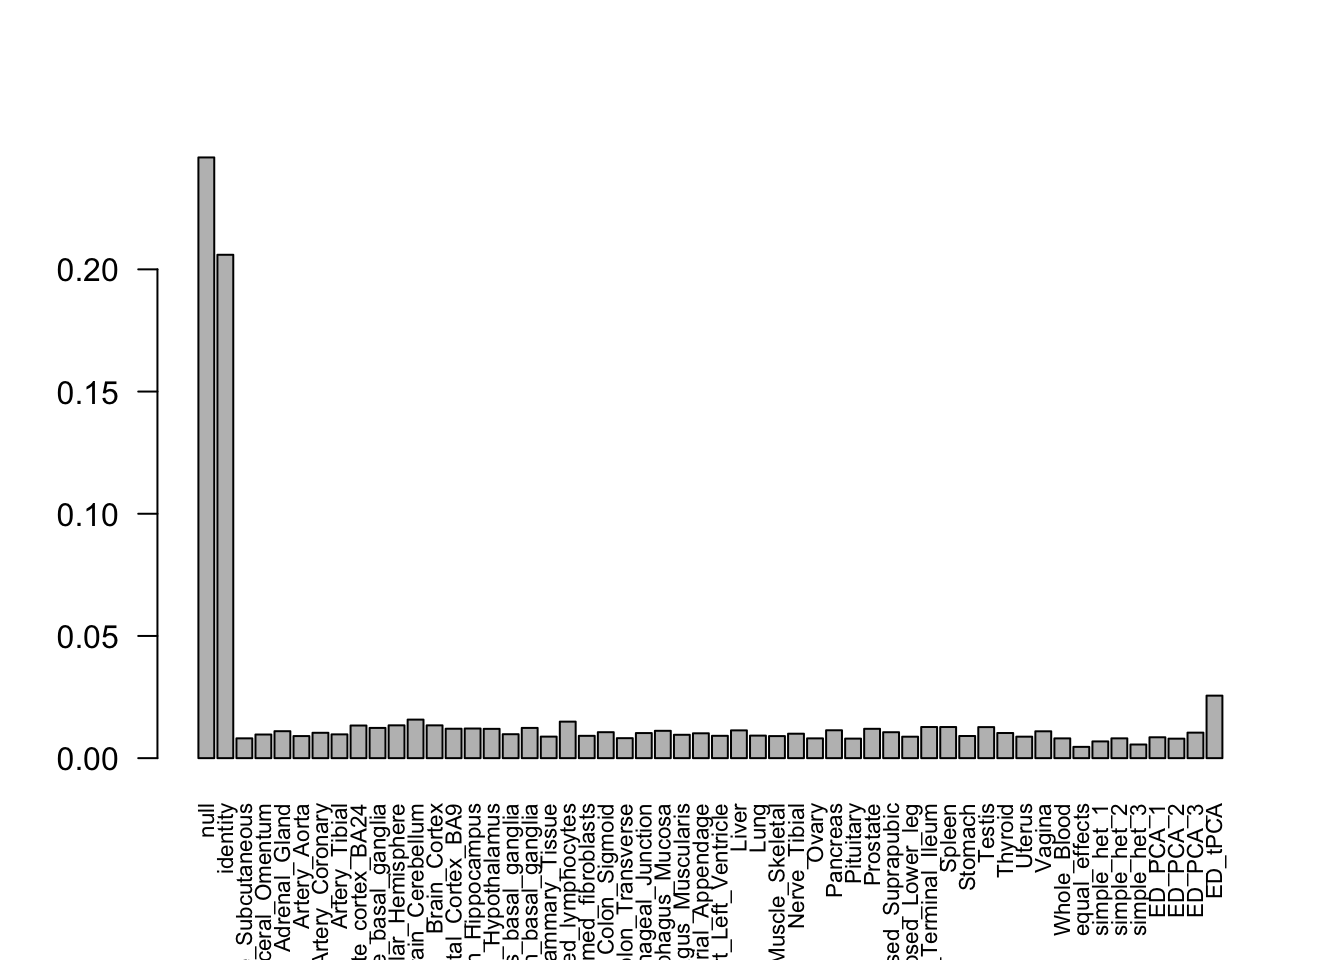
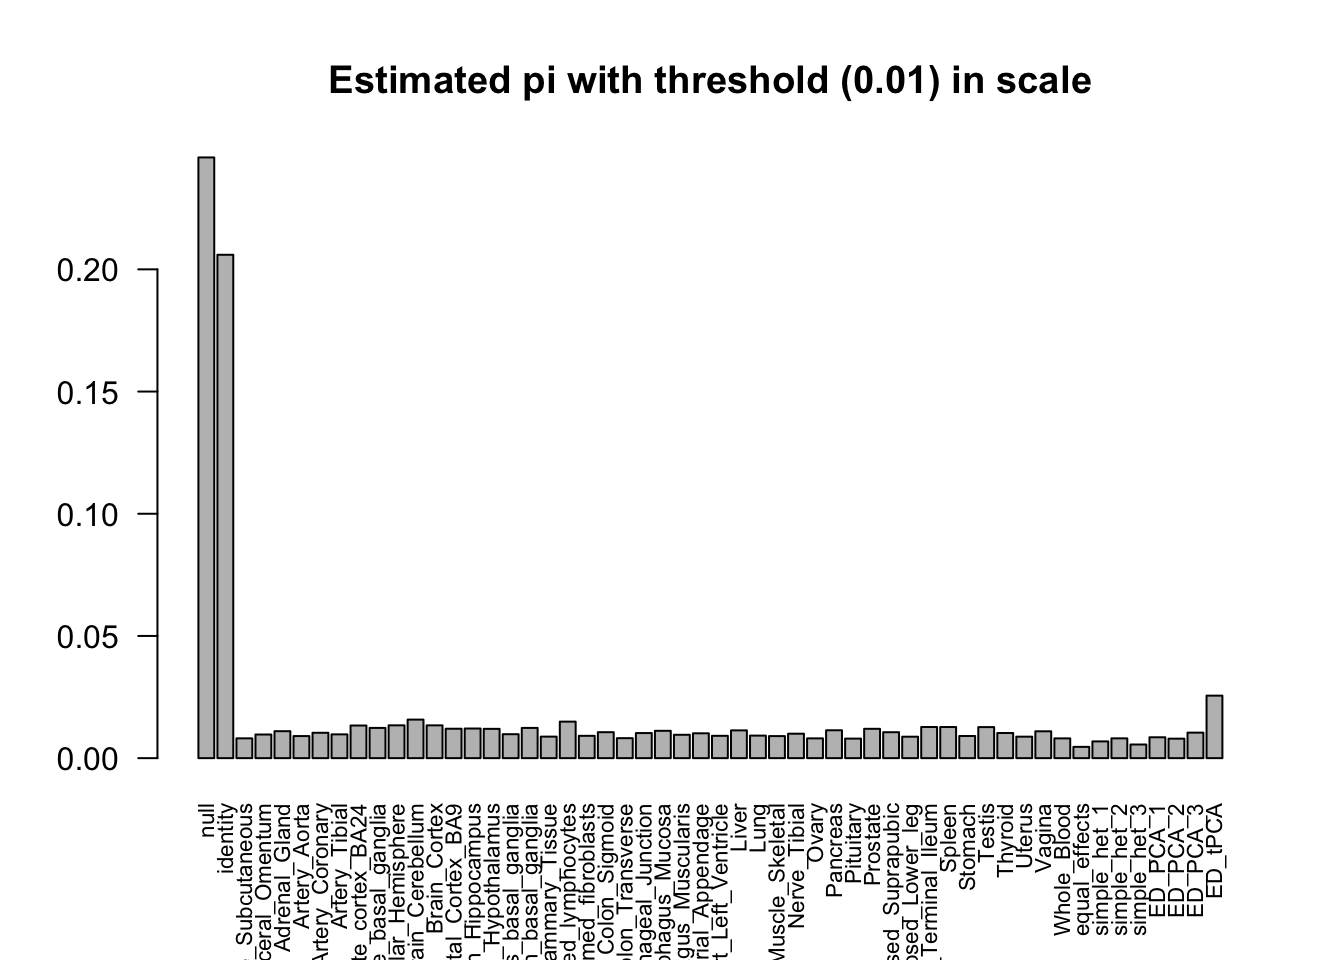
Build site.

Changed region(s): [[0.2188, 0.0625, 0.8125, 0.0938]]

diff --git a/docs/MashLowSignalGTEx3.5.html b/docs/MashLowSignalGTEx3.5.html
@@ -341,7 +341,7 @@ div.section {
 </div>
 
 
-<p><strong>Last updated:</strong> 2018-08-30</p>
+<p><strong>Last updated:</strong> 2018-08-31</p>
 <strong>workflowr checks:</strong> <small>(Click a bullet for more information)</small>
 <ul>
 <li>
@@ -365,7 +365,7 @@ div.section {
 </details>
 </li>
 <li>
-<p><details> <summary> <strong style="color:blue;">✔</strong> <strong>Repository version:</strong> <a href="https://github.com/zouyuxin/mash_application/tree/2b58dcac68168bcb25f862bdec74f0cc351fff6a" target="_blank">2b58dca</a> </summary></p>
+<p><details> <summary> <strong style="color:blue;">✔</strong> <strong>Repository version:</strong> <a href="https://github.com/zouyuxin/mash_application/tree/ef3e8e3743b94c08abe07d7094e57886d54ce0db" target="_blank">ef3e8e3</a> </summary></p>
 Great! You are using Git for version control. Tracking code development and connecting the code version to the results is critical for reproducibility. The version displayed above was the version of the Git repository at the time these results were generated. <br><br> Note that you need to be careful to ensure that all relevant files for the analysis have been committed to Git prior to generating the results (you can use <code>wflow_publish</code> or <code>wflow_git_commit</code>). workflowr only checks the R Markdown file, but you know if there are other scripts or data files that it depends on. Below is the status of the Git repository when the results were generated:
 <pre><code>
 Ignored files:
@@ -388,9 +388,6 @@ Untracked files:
     Untracked:  analysis/EstimateCorPrior.Rmd
     Untracked:  analysis/EstimateCorSol.Rmd
     Untracked:  analysis/HierarchicalFlashSim.Rmd
-    Untracked:  analysis/MashLowSignalGTEx.Rmd
-    Untracked:  analysis/MashLowSignalGTExPerm.Rmd
-    Untracked:  analysis/MashLowSignalIndex.Rmd
     Untracked:  analysis/Mash_GTEx.Rmd
     Untracked:  analysis/MeanAsh.Rmd
     Untracked:  analysis/OutlierDetection.Rmd
@@ -414,8 +411,6 @@ Untracked files:
     Untracked:  data/Blischak_et_al_2015/
     Untracked:  data/scale_data.rds
     Untracked:  docs/figure/Classify.Rmd/
-    Untracked:  docs/figure/MashLowSignalGTEx.Rmd/
-    Untracked:  docs/figure/MashLowSignalGTExPerm.Rmd/
     Untracked:  docs/figure/OutlierDetection.Rmd/
     Untracked:  docs/figure/OutlierDetection2.Rmd/
     Untracked:  docs/figure/OutlierDetection3.Rmd/
@@ -474,6 +469,7 @@ Untracked files:
     Untracked:  output/UKBio_mash_model.rds
 
 Unstaged changes:
+    Deleted:    analysis/MashLowSignalGTEx3.5P.Rmd
     Modified:   analysis/Mash_UKBio.Rmd
     Modified:   analysis/mash_missing_samplesize.Rmd
     Modified:   output/Flash_T2_0.rds
@@ -508,6 +504,40 @@ Message
 </tr>
 </thead>
 <tbody>
+<tr>
+<td style="text-align:left;">
+Rmd
+</td>
+<td style="text-align:left;">
+<a href="https://github.com/zouyuxin/mash_application/blob/ef3e8e3743b94c08abe07d7094e57886d54ce0db/analysis/MashLowSignalGTEx3.5.Rmd" target="_blank">ef3e8e3</a>
+</td>
+<td style="text-align:left;">
+zouyuxin
+</td>
+<td style="text-align:left;">
+2018-08-31
+</td>
+<td style="text-align:left;">
+wflow_publish(“analysis/MashLowSignalGTEx3.5.Rmd”)
+</td>
+</tr>
+<tr>
+<td style="text-align:left;">
+html
+</td>
+<td style="text-align:left;">
+<a href="https://cdn.rawgit.com/zouyuxin/mash_application/62d0375740804365a4f47ec7548074147abc9868/docs/MashLowSignalGTEx3.5.html" target="_blank">62d0375</a>
+</td>
+<td style="text-align:left;">
+zouyuxin
+</td>
+<td style="text-align:left;">
+2018-08-30
+</td>
+<td style="text-align:left;">
+Build site.
+</td>
+</tr>
 <tr>
 <td style="text-align:left;">
 Rmd
@@ -602,6 +632,37 @@ wflow_publish(“analysis/MashLowSignalGTEx3.5.Rmd”)
 <pre><code>Loading required package: ashr</code></pre>
 <pre class="r"><code>library(knitr)
 library(kableExtra)</code></pre>
+<p>There are two random sets in the <a href="https://github.com/stephenslab/gtexresults/blob/master/data/MatrixEQTLSumStats.Portable.Z.rds?raw=TRUE">GTEx summary data set</a>. We don’t know the null in the real data. If we have the individual level data, we can do a permutation to generate null. With the summary statistics, we select the null set using threshold on z scores.</p>
+<p>Using qvalues 0.05 as the threshold, the corresponding non-significant |z| value is around 3.1. Since lfsr and lfdr are both more conservative than q values, we select the samples with <span class="math inline">\(\max_{r} |Z_{jr}| &lt; 3.5\)</span> from each data set as the null set. We estimate data driven covariance matrices from data 1, estimate noise correlation from data 2, fit mash model on data 2 and calculate posterior on data 1.</p>
+<pre class="r"><code>data = readRDS(&#39;../output/GTEx_3.5_nullData.rds&#39;)
+model = readRDS(&#39;../output/GTEx_3.5_nullModel.rds&#39;)</code></pre>
+<p>Sample size:</p>
+<pre class="r"><code>samplesize = matrix(c(nrow(data$m.data1.null$Bhat), nrow(data$m.data2.null$Bhat)))
+row.names(samplesize) = c(&#39;data 1&#39;, &#39;data 2&#39;)
+samplesize %&gt;% kable() %&gt;% kable_styling()</code></pre>
+<table class="table" style="margin-left: auto; margin-right: auto;">
+<tbody>
+<tr>
+<td style="text-align:left;">
+data 1
+</td>
+<td style="text-align:right;">
+18189
+</td>
+</tr>
+<tr>
+<td style="text-align:left;">
+data 2
+</td>
+<td style="text-align:right;">
+25718
+</td>
+</tr>
+</tbody>
+</table>
+<pre class="r"><code>barplot(get_estimated_pi(model), las=2, cex.names = 0.7)</code></pre>
+<p><img src="figure/MashLowSignalGTEx3.5.Rmd/unnamed-chunk-4-1.png" width="672" style="display: block; margin: auto;" /></p>
+<p>The estimated weights <span class="math inline">\(\hat{\pi}\)</span> on null part is not large. The weight on the other covariance structures may concentrate on the small grid (small <span class="math inline">\(\omega_{l}\)</span>). So they are very close to null, but we cannot view it in the plot. I modified the <code>get_estimated_pi</code> function to have a threshold for grid. The weights on the grid less than the threshold are merged into the null part.</p>
 <pre class="r"><code>get_estimated_pi = function(m, dimension = c(&quot;cov&quot;, &quot;grid&quot;, &quot;all&quot;), thres = NULL){
   dimension = match.arg(dimension)
   if (dimension == &quot;all&quot;) {
@@ -635,66 +696,6 @@ library(kableExtra)</code></pre>
       return(pihat)
   }
 }</code></pre>
-<p>There are two random sets in the <a href="https://github.com/stephenslab/gtexresults/blob/master/data/MatrixEQTLSumStats.Portable.Z.rds?raw=TRUE">GTEx summary data set</a>. Using qvalues 0.05 as the threshold, the corresponding non-significant |z| value is around 3.1. Since lfsr and lfdr are both more conservative than q values, we select the samples with <span class="math inline">\(\max_{r} |Z_{jr}| &lt; 3.5\)</span> from each data set as the null set. We estimate data driven covariance matrices from data 1, estimate noise correlation from data 2, fit mash model on data 2 and calculate posterior on data 1.</p>
-<pre class="r"><code>data = readRDS(&#39;../output/GTEx_3.5_nullData.rds&#39;)
-model = readRDS(&#39;../output/GTEx_3.5_nullModel.rds&#39;)</code></pre>
-<p>Sample size:</p>
-<pre class="r"><code>samplesize = matrix(c(nrow(data$m.data1.null$Bhat), nrow(data$m.data2.null$Bhat)))
-row.names(samplesize) = c(&#39;data 1&#39;, &#39;data 2&#39;)
-samplesize %&gt;% kable() %&gt;% kable_styling()</code></pre>
-<table class="table" style="margin-left: auto; margin-right: auto;">
-<tbody>
-<tr>
-<td style="text-align:left;">
-data 1
-</td>
-<td style="text-align:right;">
-18189
-</td>
-</tr>
-<tr>
-<td style="text-align:left;">
-data 2
-</td>
-<td style="text-align:right;">
-25718
-</td>
-</tr>
-</tbody>
-</table>
-<pre class="r"><code>barplot(get_estimated_pi(model), las=2, cex.names = 0.7)</code></pre>
-<p><img src="figure/MashLowSignalGTEx3.5.Rmd/unnamed-chunk-5-1.png" width="672" style="display: block; margin: auto;" /></p>
-<details> <summary><em>Expand here to see past versions of unnamed-chunk-5-1.png:</em></summary>
-<table style="border-collapse:separate; border-spacing:5px;">
-<thead>
-<tr>
-<th style="text-align:left;">
-Version
-</th>
-<th style="text-align:left;">
-Author
-</th>
-<th style="text-align:left;">
-Date
-</th>
-</tr>
-</thead>
-<tbody>
-<tr>
-<td style="text-align:left;">
-<a href="https://github.com/zouyuxin/mash_application/blob/e9f5a3480a5a6f13c7a1f3c63b451c6d33b3fd4a/docs/figure/MashLowSignalGTEx3.5.Rmd/unnamed-chunk-5-1.png" target="_blank">e9f5a34</a>
-</td>
-<td style="text-align:left;">
-zouyuxin
-</td>
-<td style="text-align:left;">
-2018-08-30
-</td>
-</tr>
-</tbody>
-</table>
-<p></details></p>
-<p>The estimated weights <span class="math inline">\(\hat{\pi}\)</span> on null part is not large. The weight on the other covariance structures may concentrate on the small grid (small <span class="math inline">\(\omega_{l}\)</span>). So they are very close to null, but we cannot view it in the plot. I modified the <code>get_estimated_pi</code> function to have a threshold for grid. The weights for the grid less than the threshold are merged into null part.</p>
 <pre class="r"><code>barplot(get_estimated_pi(model, thres = 0.01), las=2, cex.names = 0.7)</code></pre>
 <p><img src="figure/MashLowSignalGTEx3.5.Rmd/unnamed-chunk-6-1.png" width="672" style="display: block; margin: auto;" /></p>
 <details> <summary><em>Expand here to see past versions of unnamed-chunk-6-1.png:</em></summary>
@@ -763,6 +764,7 @@ zouyuxin
 <p>There are 483 significant samples in data 1.</p>
 <div id="permute-samples-in-each-condition-to-break-the-sharing" class="section level2">
 <h2>Permute samples in each condition to break the sharing</h2>
+<p><code>mash</code> increases power, because it considers the sharing among conditions. We permute samples in each condition to break the sharing.</p>
 <pre class="r"><code>data = readRDS(&#39;../output/GTEx_3.5_nullPermData.rds&#39;)
 model = readRDS(&#39;../output/GTEx_3.5_nullPermModel.rds&#39;)</code></pre>
 <p>Sample size:</p>
@@ -789,7 +791,7 @@ data 2
 </tr>
 </tbody>
 </table>
-<pre class="r"><code>barplot(get_estimated_pi(model), las=2, cex.names = 0.7)</code></pre>
+<pre class="r"><code>barplot(get_estimated_pi(model), las=2, cex.names = 0.7, main = &#39;Estiamted pi&#39;)</code></pre>
 <p><img src="figure/MashLowSignalGTEx3.5.Rmd/unnamed-chunk-10-1.png" width="672" style="display: block; margin: auto;" /></p>
 <details> <summary><em>Expand here to see past versions of unnamed-chunk-10-1.png:</em></summary>
 <table style="border-collapse:separate; border-spacing:5px;">
@@ -821,7 +823,7 @@ zouyuxin
 </tbody>
 </table>
 <p></details></p>
-<pre class="r"><code>barplot(get_estimated_pi(model, thres = 0.01), las=2, cex.names = 0.7)</code></pre>
+<pre class="r"><code>barplot(get_estimated_pi(model, thres = 0.01), las=2, cex.names = 0.7, main=&#39;Estimated pi with threshold (0.01) in scale&#39;)</code></pre>
 <p><img src="figure/MashLowSignalGTEx3.5.Rmd/unnamed-chunk-11-1.png" width="672" style="display: block; margin: auto;" /></p>
 <details> <summary><em>Expand here to see past versions of unnamed-chunk-11-1.png:</em></summary>
 <table style="border-collapse:separate; border-spacing:5px;">
